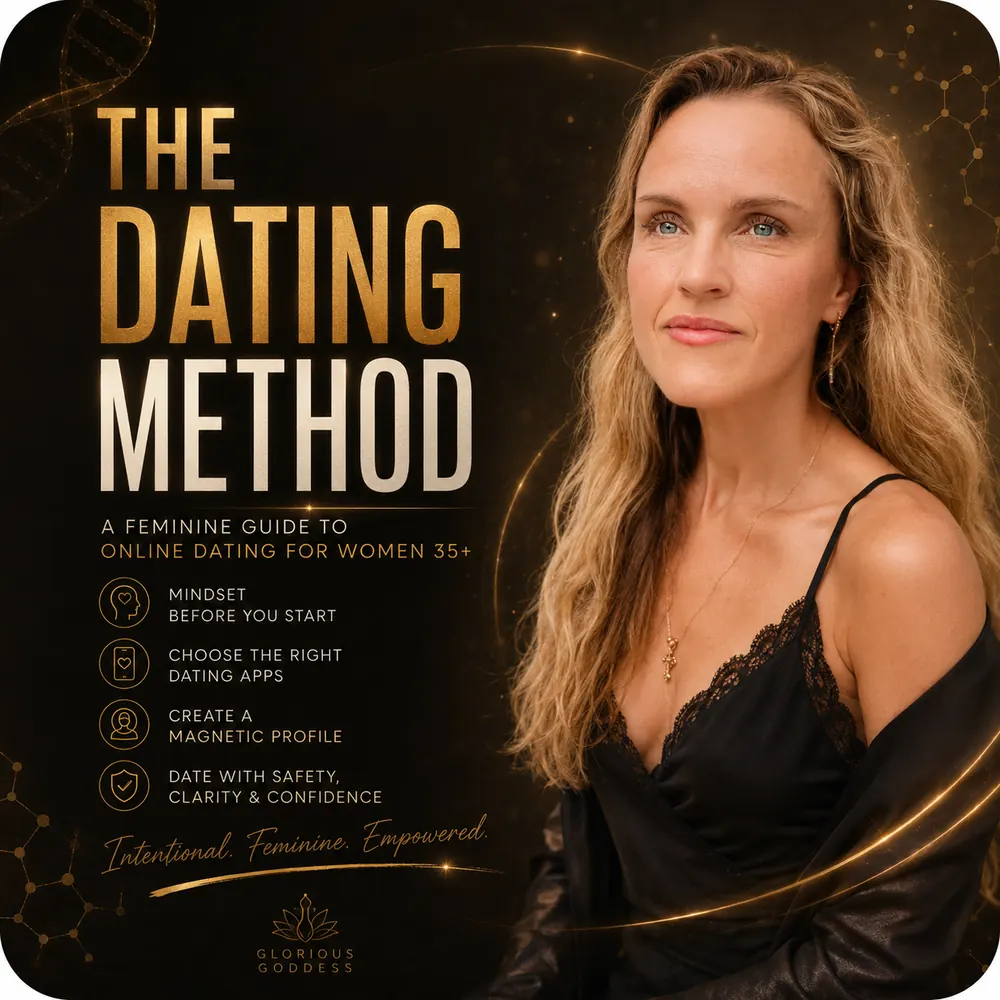
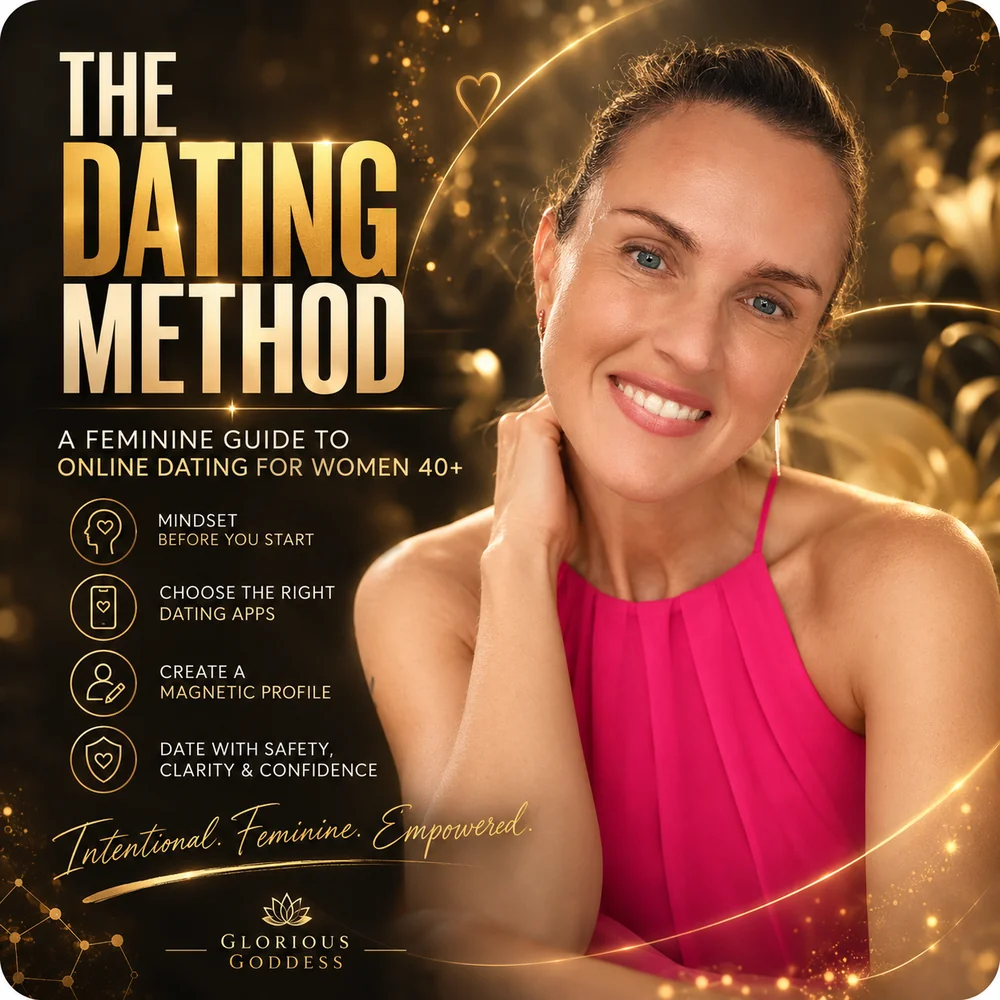
New course card artwork for women 40+
Claude-Session: https://claude.ai/code/session_01Vf74EfYxhDYhE9RHLJiwk7

diff --git a/public/index.html b/public/index.html
@@ -282,8 +282,8 @@
             <article class="offer-card">
               <img
                 class="offer-card__art"
-                src="images/card-dating-method.webp"
-                alt="The Dating Method — a feminine guide to online dating for women 35+. Mindset, choosing the right apps, creating a magnetic profile, and dating with safety and confidence."
+                src="images/card-dating-method.webp?v=2"
+                alt="The Dating Method — a feminine guide to online dating for women 40+. Mindset, choosing the right apps, creating a magnetic profile, and dating with safety and confidence."
                 width="1000"
                 height="1000"
                 loading="lazy"
